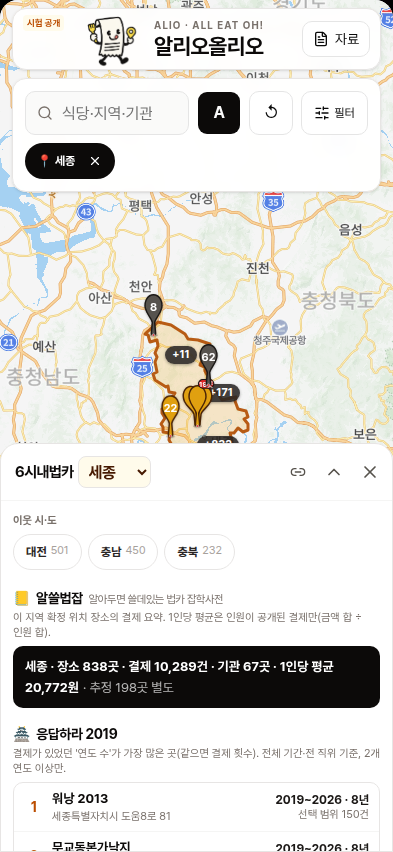
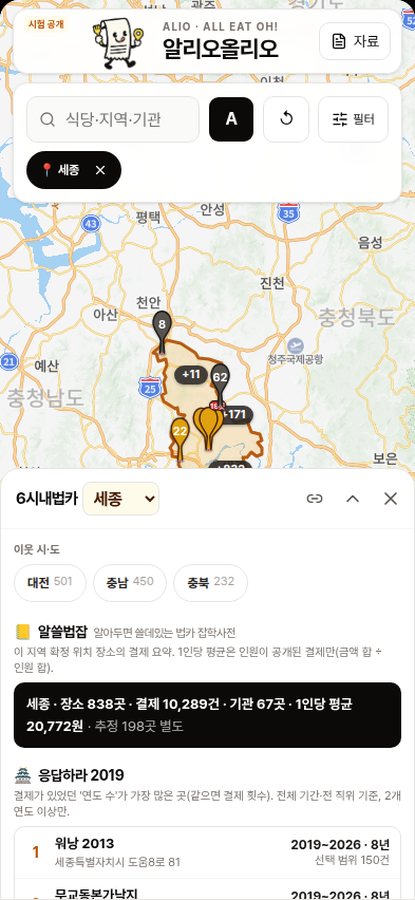
소개글 보강: 요약 박스·분야·데이터 출처·문의, 화면 캡처 높이 맞춤

diff --git a/README.md b/README.md
@@ -1,15 +1,23 @@
 <p align="center"><img src="assets/icon.png" width="140" alt="알리오올리오 캐릭터"></p>
 
-<h1 align="center">알리오올리오 · ALIO · ALL EAT OH!</h1>
+# 알리오올리오 — 공공 부문 업무추진비 맛지도
 
-<p align="center"><b>공공 부문 업무추진비 맛지도</b><br>
-공공기관·지자체·중앙부처·지방공기업이 공개한 업무추진비 결제 기록을 식당 지도로 모았습니다.</p>
+> 공공기관·지자체·중앙부처·지방공기업이 공개한 **업무추진비 결제 기록**을 식당 지도로 모았습니다.
+>
+> 어느 식당을 여러 기관이 오래 찾았는지, 지역·기관·연도별로 지도와 목록에서 확인합니다.
+>
+> 공공데이터 기반 · 로그인 없음 · 무료 · 시험 공개(베타)
 
-<p align="center">👉 <a href="https://alioolio.k-union.kr"><b>alioolio.k-union.kr</b></a> (시험 공개 · 국내 접속)</p>
+| | |
+|---|---|
+| 🌐 **사이트** | https://alioolio.k-union.kr |
+| 📱 **이용 환경** | PC·모바일 웹 브라우저 (국내 접속) |
+| 🔄 **갱신 주기** | 분기 또는 반기 |
+| 🏷 **분야** | 공공행정 · 공공데이터 · 지도 서비스 |
 
 ---
 
-## 어떤 서비스인가요
+## 🍽 어떤 서비스인가요
 
 공공기관은 업무추진비를 어디에서, 언제, 얼마나 썼는지 공개합니다. 다만 기관마다 게시판·파일 형식이 달라 한눈에 보기 어렵습니다.
 알리오올리오는 이 공개 자료를 모아 **결제 장소를 실제 식당 위치와 맞춰 지도에 올린 서비스**입니다.
@@ -22,9 +30,9 @@
 
 | PC | 모바일 |
 |---|---|
-| <img src="assets/screen-pc.png" width="560" alt="PC 화면"> | <img src="assets/screen-mobile.png" width="230" alt="모바일 화면"> |
+| <img src="assets/screen-pc.png" height="420" alt="PC 화면"> | <img src="assets/screen-mobile.png" height="420" alt="모바일 화면"> |
 
-## 수록 범위 (2026-10-30 기준)
+## 📚 수록 범위 (2026-10-30 기준)
 
 | 항목 | 규모 |
 |---|---|
@@ -35,7 +43,7 @@
 
 자료는 **분기 또는 반기마다** 새 공개분을 모아 갱신합니다.
 
-## 주요 기능
+## 🧭 주요 기능
 
 - **지도·목록 검색**: 식당·지역·기관 이름으로 검색하고, 기관 유형·직위·기간으로 좁혀 봅니다. 멀리서는 권역별 고봉밥 묶음, 가까이 갈수록 결제가 많은 곳부터 핀이 드러납니다.
 - **맛집 도장(테마)** — 여러 개를 켜면 겹치는 곳만 보입니다.
@@ -51,20 +59,26 @@
 - **📺 6시내법카(지역 리포트)**: 시·도/시·군·구를 고르면 지역에 음영을 씌우고 결제 요약, 오래 사랑받은 곳, 최근 줄 서는 곳 등을 보여 줍니다.
 - **내 위치 · 네이버 지도 연결**: 내 주변 식당을 보고, 식당 카드에서 네이버 지도 장소 정보로 바로 넘어갑니다.
 
-## 자료와 방법
+## 🛠 자료와 방법
 
 - **결제 기록**: 각 기관이 공개한 업무추진비 사용 내역 — ALIO(공공기관 경영정보 공개시스템), 기관 홈페이지 공개 게시판(공공기관·지자체·중앙부처·지방공기업).
 - **장소 매칭**: 결제처 상호를 식품 일반음식점 인허가 자료(공공데이터포털)와 대조해 위치를 정했습니다. 원문과 상호·주소가 하나로 확인되면 **확정**, 후보가 하나뿐이지만 일부 확인이 남으면 **위치 추정**(지도에서 점선 핀)으로 표시합니다.
-- **지역 경계**: 통계청 SGIS 행정동 경계(공공누리 제1유형) · 가공 vuski/admdongkor(CC BY 4.0).
-- **지도**: NAVER 지도, OpenStreetMap.
+- 지역 경계·지도 출처는 아래 데이터 출처를 보세요.
 
-## 꼭 알아 두세요
+## ⚠ 알아 두세요
 
 - 공개된 **과거 결제 기록**을 정리한 것입니다. 직위는 결제마다 공시된 값이며 **본인 참석이나 현재 방문을 뜻하지 않습니다.**
 - 도장·메달은 재미로 붙인 분류입니다. **맛 평가나 적법·부당 여부 판단이 아닙니다.**
 - 개인 이름, 연락처, 카드번호, 원본 파일은 싣지 않습니다.
 - 위치 추정 장소는 실제 결제 지점과 다를 수 있습니다. 잘못된 위치·상호는 사이트의 정정 요청으로 알려 주시면 고칩니다.
 
-## 이 저장소
+- 원문 공개 시점과 갱신 주기에 따라 최신 결제가 늦게 반영될 수 있습니다.
 
-이 저장소는 서비스를 소개하는 곳입니다. 서비스는 [alioolio.k-union.kr](https://alioolio.k-union.kr)에서 운영합니다.
+## 🗂 데이터 출처
+- 업무추진비 사용 내역: [ALIO 공공기관 경영정보 공개시스템](https://www.alio.go.kr), 각 기관 홈페이지 공개 게시판
+- 음식점 위치: [공공데이터포털 식품 일반음식점 인허가 정보](https://www.data.go.kr)
+- 지역 경계: 통계청 SGIS 행정동 경계(공공누리 제1유형), [vuski/admdongkor](https://github.com/vuski/admdongkor)(CC BY 4.0)
+- 지도: NAVER 지도, © OpenStreetMap contributors
+
+## 📮 문의
+bigone@k-union.kr
